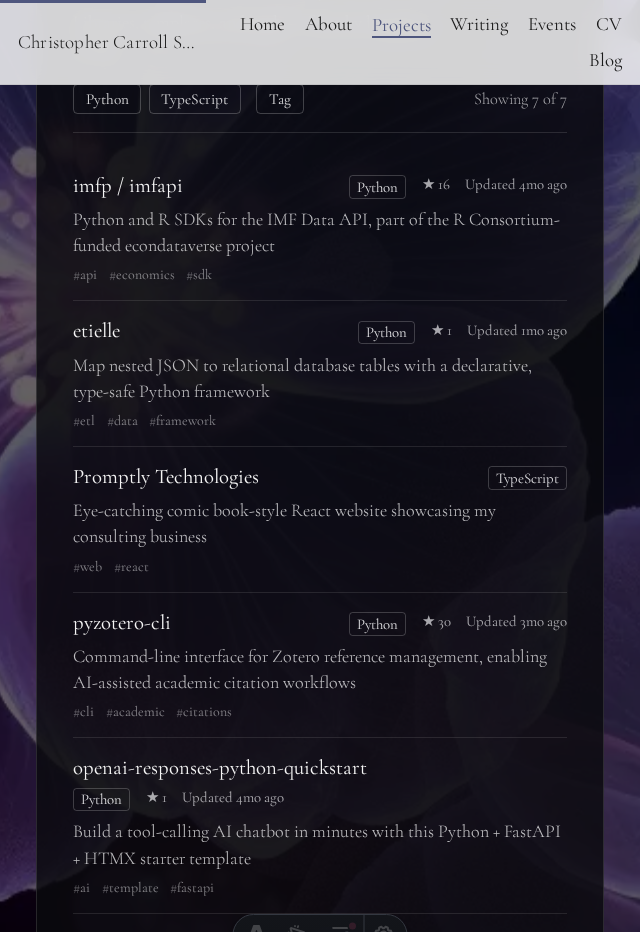
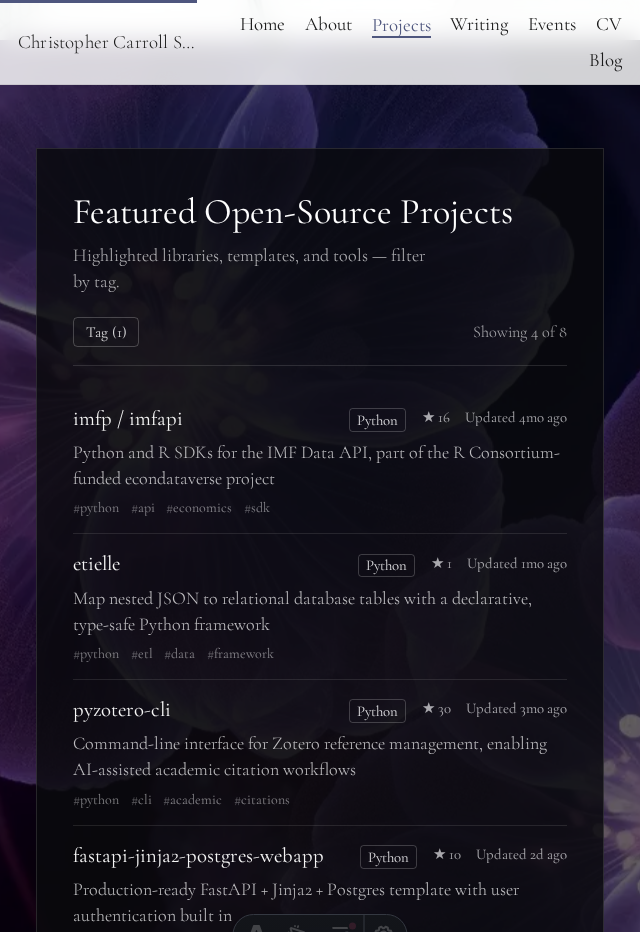
Feature highlights-only projects index with tag filters
Retitle to Featured Open-Source Projects, default the tag filter to
highlight, drop language selectors in favor of python/typescript tags,
swap the curated repo list, and refresh project GitHub metadata.

diff --git a/src/components/Projects.tsx b/src/components/Projects.tsx
@@ -17,6 +17,7 @@ const typedProjectsData = projectsData as Project[];
 const typedGithubMeta = githubMeta as ProjectGithubMetaFile;
 
 const ALL_PROJECTS = loadProjectIndex(typedProjectsData, typedGithubMeta);
+const DEFAULT_TAGS = ['highlight'] as const;
 
 function toggleValue(values: string[], value: string): string[] {
   return values.includes(value) ? values.filter((item) => item !== value) : [...values, value];
@@ -24,14 +25,9 @@ function toggleValue(values: string[], value: string): string[] {
 
 const Projects: React.FC = () => {
   const hero = typedHeroData.find((h) => h.name === 'projects');
-  const [selectedLanguages, setSelectedLanguages] = useState<string[]>([]);
-  const [selectedTags, setSelectedTags] = useState<string[]>([]);
+  const [selectedTags, setSelectedTags] = useState<string[]>([...DEFAULT_TAGS]);
   const tagsFacetRef = useRef<HTMLDetailsElement>(null);
 
-  const languages = useMemo(
-    () => uniqueSorted(ALL_PROJECTS.map((project) => project.language)),
-    [],
-  );
   const tags = useMemo(
     () => uniqueSorted(ALL_PROJECTS.flatMap((project) => project.tags)),
     [],
@@ -50,29 +46,19 @@ const Projects: React.FC = () => {
   }, []);
 
   const filtered = useMemo(() => {
-    return ALL_PROJECTS.filter((project) => {
-      if (
-        selectedLanguages.length > 0 &&
-        (!project.language || !selectedLanguages.includes(project.language))
-      ) {
-        return false;
-      }
-      if (
-        selectedTags.length > 0 &&
-        !selectedTags.some((tag) => project.tags.includes(tag))
-      ) {
-        return false;
-      }
-      return true;
-    });
-  }, [selectedLanguages, selectedTags]);
+    if (selectedTags.length === 0) return ALL_PROJECTS;
+    return ALL_PROJECTS.filter((project) =>
+      selectedTags.some((tag) => project.tags.includes(tag)),
+    );
+  }, [selectedTags]);
 
-  const hasActiveFilters = selectedLanguages.length > 0 || selectedTags.length > 0;
+  const isDefaultFilter =
+    selectedTags.length === DEFAULT_TAGS.length &&
+    DEFAULT_TAGS.every((tag) => selectedTags.includes(tag));
 
   const clearFilters = () => {
     startTransition(() => {
-      setSelectedLanguages([]);
-      setSelectedTags([]);
+      setSelectedTags([...DEFAULT_TAGS]);
     });
   };
 
@@ -90,39 +76,14 @@ const Projects: React.FC = () => {
       <div className="hero-content">
         <div className="projects-index">
           <header className="projects-index-header">
-            <h2 className="category-title">Open-Source Projects</h2>
+            <h2 className="category-title">Featured Open-Source Projects</h2>
             <p className="projects-index-subhead">
-              Libraries, templates, and tools — filter by language or tag.
+              Highlighted libraries, templates, and tools — filter by tag.
             </p>
           </header>
 
           <div className="projects-filters" role="group" aria-label="Filter projects">
             <div className="projects-filter-toolbar">
-              <div
-                className="projects-filter-options"
-                role="group"
-                aria-label="Filter by language"
-              >
-                {languages.map((language) => {
-                  const pressed = selectedLanguages.includes(language);
-                  return (
-                    <button
-                      key={language}
-                      type="button"
-                      className="projects-filter-chip"
-                      aria-pressed={pressed}
-                      onClick={() =>
-                        startTransition(() => {
-                          setSelectedLanguages((prev) => toggleValue(prev, language));
-                        })
-                      }
-                    >
-                      {language}
-                    </button>
-                  );
-                })}
-              </div>
-
               <details ref={tagsFacetRef} className="projects-tag-facet">
                 <summary>
                   Tag
@@ -154,9 +115,9 @@ const Projects: React.FC = () => {
                 <p className="projects-count" aria-live="polite">
                   Showing {filtered.length} of {ALL_PROJECTS.length}
                 </p>
-                {hasActiveFilters && (
+                {!isDefaultFilter && (
                   <button type="button" className="projects-clear" onClick={clearFilters}>
-                    Clear filters
+                    Reset to highlights
                   </button>
                 )}
               </div>
@@ -185,6 +146,7 @@ type ProjectRowProps = {
 const ProjectRow: React.FC<ProjectRowProps> = ({ project }) => {
   const external = /^https?:\/\//i.test(project.url);
   const pushedLabel = project.pushedAt ? formatPushedAt(project.pushedAt) : null;
+  const displayTags = project.tags.filter((tag) => tag !== 'highlight');
 
   return (
     <li className="projects-row">
@@ -214,9 +176,9 @@ const ProjectRow: React.FC<ProjectRowProps> = ({ project }) => {
         </div>
       </div>
       <p className="projects-row-description">{project.description}</p>
-      {project.tags.length > 0 && (
+      {displayTags.length > 0 && (
         <ul className="projects-row-tags">
-          {project.tags.map((tag) => (
+          {displayTags.map((tag) => (
             <li key={tag}>{tag}</li>
           ))}
         </ul>

diff --git a/tests/projects-index.spec.ts b/tests/projects-index.spec.ts
@@ -6,41 +6,43 @@ test.describe('Projects work index', () => {
     await page.locator('#projects .projects-index').waitFor({ state: 'visible' });
   });
 
-  test('renders a dense index with GitHub signals', async ({ page }) => {
-    await expect(page.locator('#projects .category-title')).toHaveText('Open-Source Projects');
-    await expect(page.locator('.projects-row')).toHaveCount(7);
-    await expect(page.locator('.projects-count')).toContainText('Showing 7 of 7');
+  test('defaults to highlighted projects with GitHub signals', async ({ page }) => {
+    await expect(page.locator('#projects .category-title')).toHaveText(
+      'Featured Open-Source Projects',
+    );
+    await expect(page.locator('.projects-row')).toHaveCount(4);
+    await expect(page.locator('.projects-count')).toContainText('Showing 4 of 8');
 
-    const taskqueue = page.locator('.projects-row', { hasText: 'taskqueue-mcp' });
-    await expect(taskqueue.locator('.projects-signal-language')).toContainText('TypeScript');
-    await expect(taskqueue.locator('.projects-signal').filter({ hasText: '★' })).toBeVisible();
-    await expect(taskqueue.locator('.projects-signal').filter({ hasText: 'Updated' })).toBeVisible();
+    await expect(page.getByRole('button', { name: 'Python', exact: true })).toHaveCount(0);
+    await expect(page.getByRole('button', { name: 'TypeScript', exact: true })).toHaveCount(0);
+
+    const etielle = page.locator('.projects-row', { hasText: 'etielle' });
+    await expect(etielle.locator('.projects-signal-language')).toContainText('Python');
+    await expect(etielle.locator('.projects-signal').filter({ hasText: '★' })).toBeVisible();
+    await expect(etielle.locator('.projects-signal').filter({ hasText: 'Updated' })).toBeVisible();
+
+    await expect(page.locator('.projects-row', { hasText: 'taskqueue-mcp' })).toHaveCount(0);
+    await expect(page.locator('.projects-row', { hasText: 'Promptly Technologies' })).toHaveCount(0);
   });
 
-  test('filters by language and tag', async ({ page }) => {
-    const typescriptChip = page.getByRole('button', { name: 'TypeScript', exact: true });
-    await typescriptChip.click();
-    await expect(typescriptChip).toHaveAttribute('aria-pressed', 'true');
-    await expect(page.locator('.projects-count')).toHaveText(/Showing [1-6] of 7/);
-
-    const afterLanguage = await page.locator('.projects-row').count();
-    expect(afterLanguage).toBeGreaterThan(0);
-    expect(afterLanguage).toBeLessThan(7);
-
-    for (const row of await page.locator('.projects-row').all()) {
-      await expect(row.locator('.projects-signal-language')).toContainText('TypeScript');
-    }
-
-    await page.getByRole('button', { name: 'Clear filters' }).click();
-    await expect(page.locator('.projects-count')).toHaveText('Showing 7 of 7');
-    await expect(page.locator('.projects-row')).toHaveCount(7);
-
+  test('filters by tag only', async ({ page }) => {
     const tagFacet = page.locator('details.projects-tag-facet');
     await tagFacet.locator('summary').click();
     await expect(tagFacet).toHaveAttribute('open', '');
-    await page.locator('label.projects-tag-option', { hasText: 'mcp' }).click();
-    await expect(page.locator('.projects-row')).toHaveCount(1);
-    await expect(page.locator('.projects-row')).toContainText('taskqueue-mcp');
+
+    // Default is highlight; add python and clear highlight to broaden.
+    await page.locator('label.projects-tag-option', { hasText: 'python' }).click();
+    await page.locator('label.projects-tag-option', { hasText: 'highlight' }).click();
+    await expect(page.locator('.projects-count')).toHaveText(/Showing [1-8] of 8/);
+    await expect(page.locator('.projects-row').first()).toBeVisible();
+
+    for (const row of await page.locator('.projects-row').all()) {
+      await expect(row.locator('.projects-row-tags')).toContainText('python');
+    }
+
+    await page.getByRole('button', { name: 'Reset to highlights' }).click();
+    await expect(page.locator('.projects-count')).toHaveText('Showing 4 of 8');
+    await expect(page.locator('.projects-row')).toHaveCount(4);
     await expect(tagFacet.locator('summary')).toContainText('Tag (1)');
   });
 

diff --git a/src/components/Projects.css b/src/components/Projects.css
@@ -130,35 +130,6 @@
   margin: 0;
 }
 
-.projects-filter-chip {
-  margin: 0;
-  padding: 0.28rem 0.65rem;
-  border: 1px solid rgba(255, 255, 255, 0.22);
-  border-radius: 0.25rem;
-  background: transparent;
-  color: rgba(242, 242, 244, 0.88);
-  font: inherit;
-  font-size: 0.85rem;
-  cursor: pointer;
-  transition: background-color 160ms ease, border-color 160ms ease, color 160ms ease;
-}
-
-.projects-filter-chip:hover {
-  border-color: rgba(255, 255, 255, 0.45);
-  color: #fff;
-}
-
-.projects-filter-chip[aria-pressed='true'] {
-  background: rgba(255, 255, 255, 0.14);
-  border-color: rgba(255, 255, 255, 0.55);
-  color: #fff;
-}
-
-.projects-filter-chip:focus-visible {
-  outline: 2px solid #c8d0ff;
-  outline-offset: 2px;
-}
-
 .projects-filter-meta {
   display: flex;
   flex-wrap: wrap;
